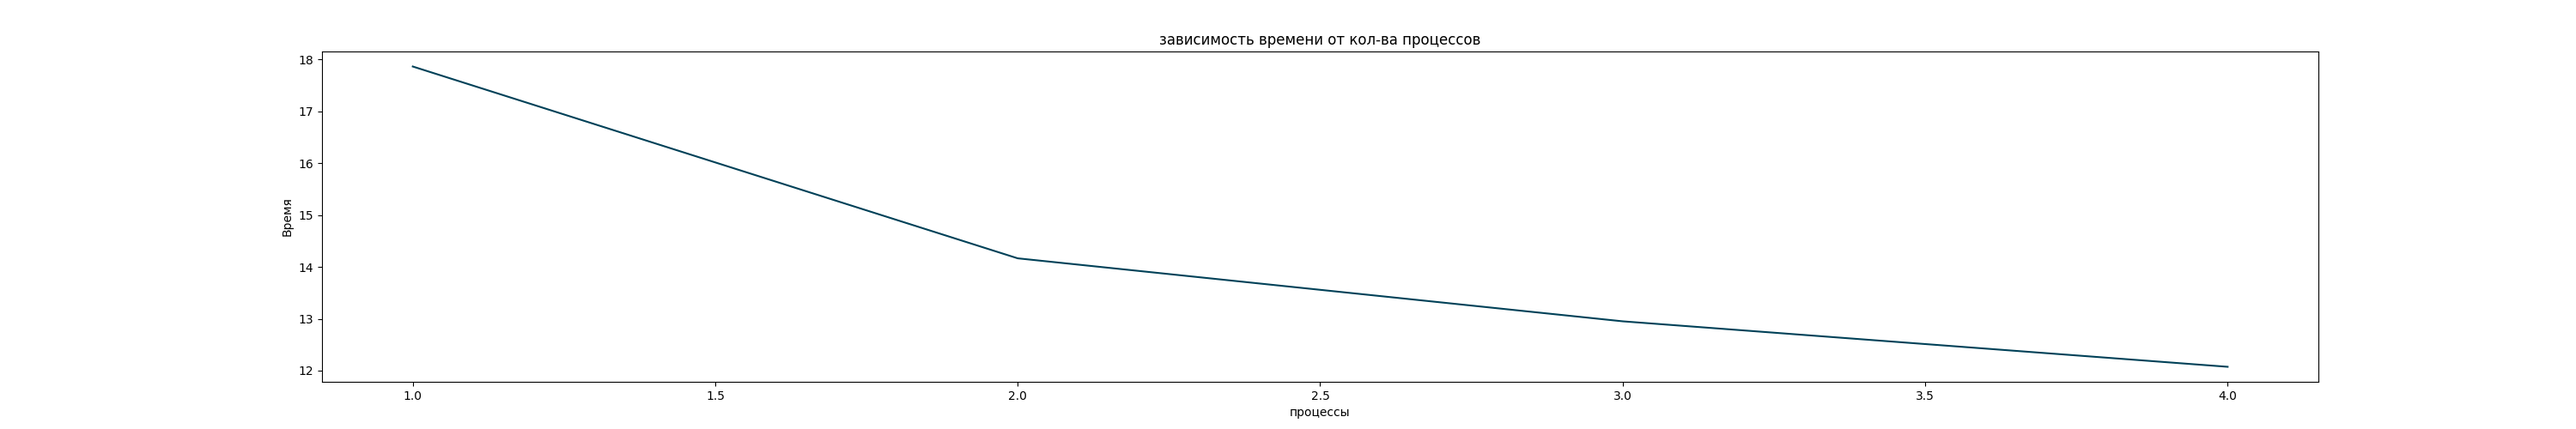
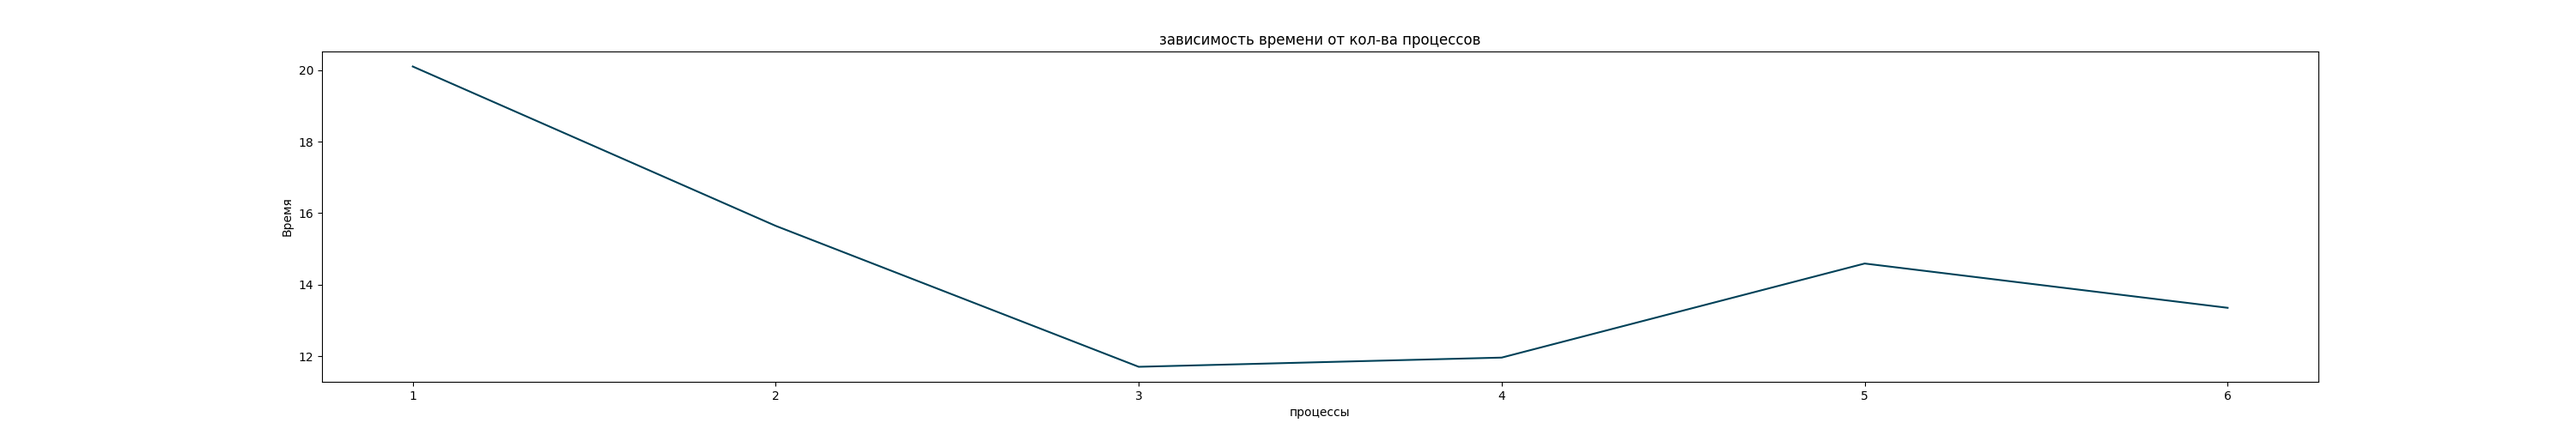
add: writing a result of the luhn algorithm into json and amount of processes is now in the init file

diff --git a/some_funcs.py b/some_funcs.py
@@ -20,10 +20,11 @@ def luhn(init: dict)->bool:
     res = 0
     try:
         with open(init["found_card"]) as f:
-            number = str(json.load(f))
+            data = json.load(f)
     except FileNotFoundError:
           logging.error(f"{init['found_card']} not found")
-    
+    number = str(data["card_number"])
+    print(number)
     number = list(map(int, number))
     last = number[15]
     number.pop()
@@ -35,10 +36,18 @@ def luhn(init: dict)->bool:
             res += i
 
     res = 10 - res % 10
+    print(res, last)
     if res == last:
         logging.info("Карточка корректна")
+        data["luhn_check"] = "true"
     else:
         logging.info("Карточка не корректна")
+        data["luhn_check"] = "false"
+    try:
+        with open(init["found_card"], 'w') as f:
+            json.dump(data, f)
+    except FileNotFoundError:
+          logging.error(f"{init['found_card']} not found")
          
 
 
@@ -73,14 +82,18 @@ def searching(init: dict, processes: int):
                         p.terminate()
                         ok = 1
                         logging.info(f'Найденная карта лежит по пути {init["found_card"]}')
+                        data = {}
+                        data["card_number"] = f"{result}"
                         try:
                             with open(init["found_card"], 'w') as f:
-                                    json.dump(result, f)
+                                    json.dump(data, f)
                         except FileNotFoundError:
                             logging.error(f"{init['found_card']} not found")
                         break
             if ok == 1:
                  break
+    if ok == 0:
+        logging.info('Карта не найдена')
             
 def save_stat(init: dict):
     """
@@ -89,15 +102,15 @@ def save_stat(init: dict):
         init(dict): входные данные
     """
     times = []
-    for i in range(mp.cpu_count()):
+    for i in range(int(init["processes_amount"])):
             start = time()
-            logging.info(f'{i+1} процессa\n')
+            logging.info(f'количество процессов: {i+1}\n')
             searching(init, i+1)
             times.append(time()-start)
     fig=plt.figure(figsize=(30, 5))
     plt.ylabel('Время')
     plt.xlabel('процессы')
     plt.title('зависимость времени от кол-ва процессов')
-    plt.plot(list(x+1 for x in range(4)),times, color='#004158') 
+    plt.plot(list(x+1 for x in range(int(init["processes_amount"]))),times, color='#004158') 
     plt.savefig(f'{init["stat_path"]}')
     logging.info(f'Зависимость времени от процессов сохранена по пути {init["stat_path"]}\n')

diff --git a/main.py b/main.py
@@ -29,7 +29,7 @@ if __name__ == '__main__':
     match mode:
         case (True, False, False):
                 logging.info('Поиск номера карточки\n')
-                searching(init, mp.cpu_count())
+                searching(init, int(init["processes_amount"]))
         case (False, True, False):
                 logging.info('Проверка корректности карточки...')
                 luhn(init)
